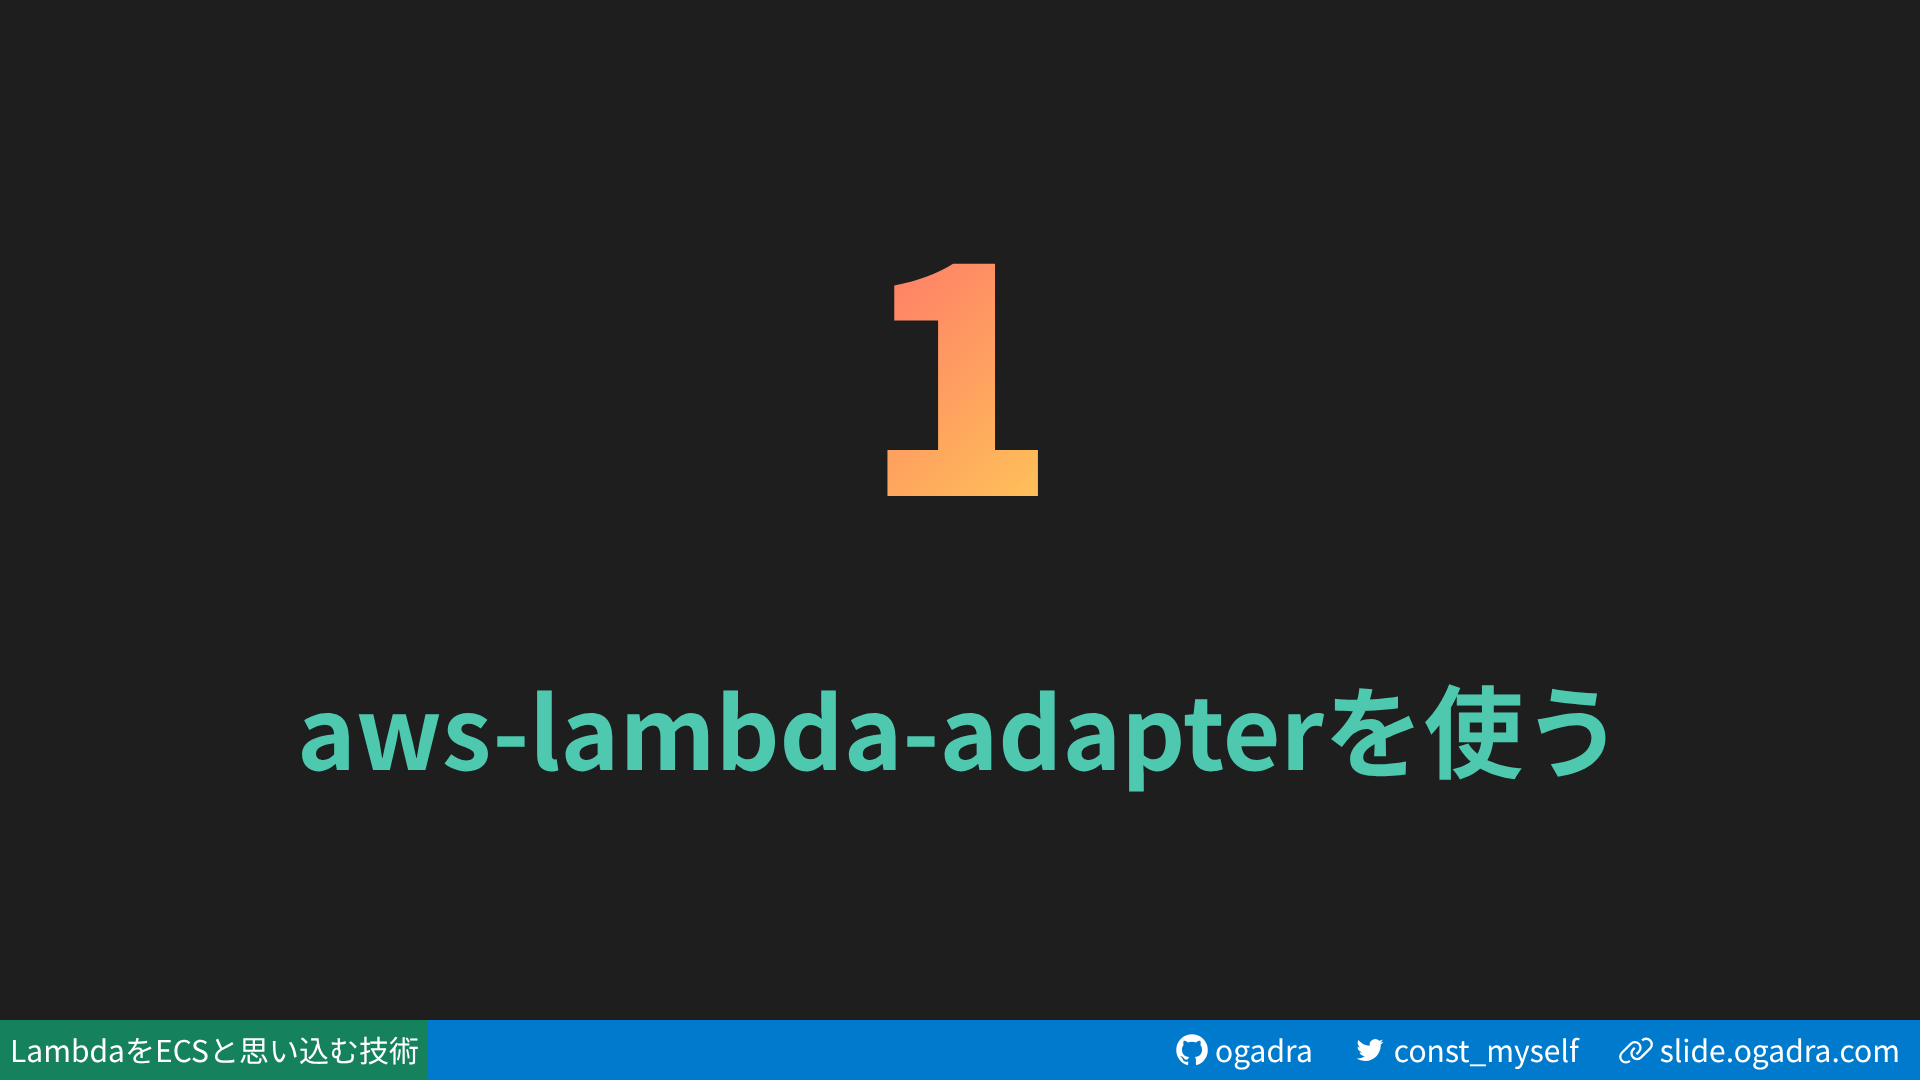
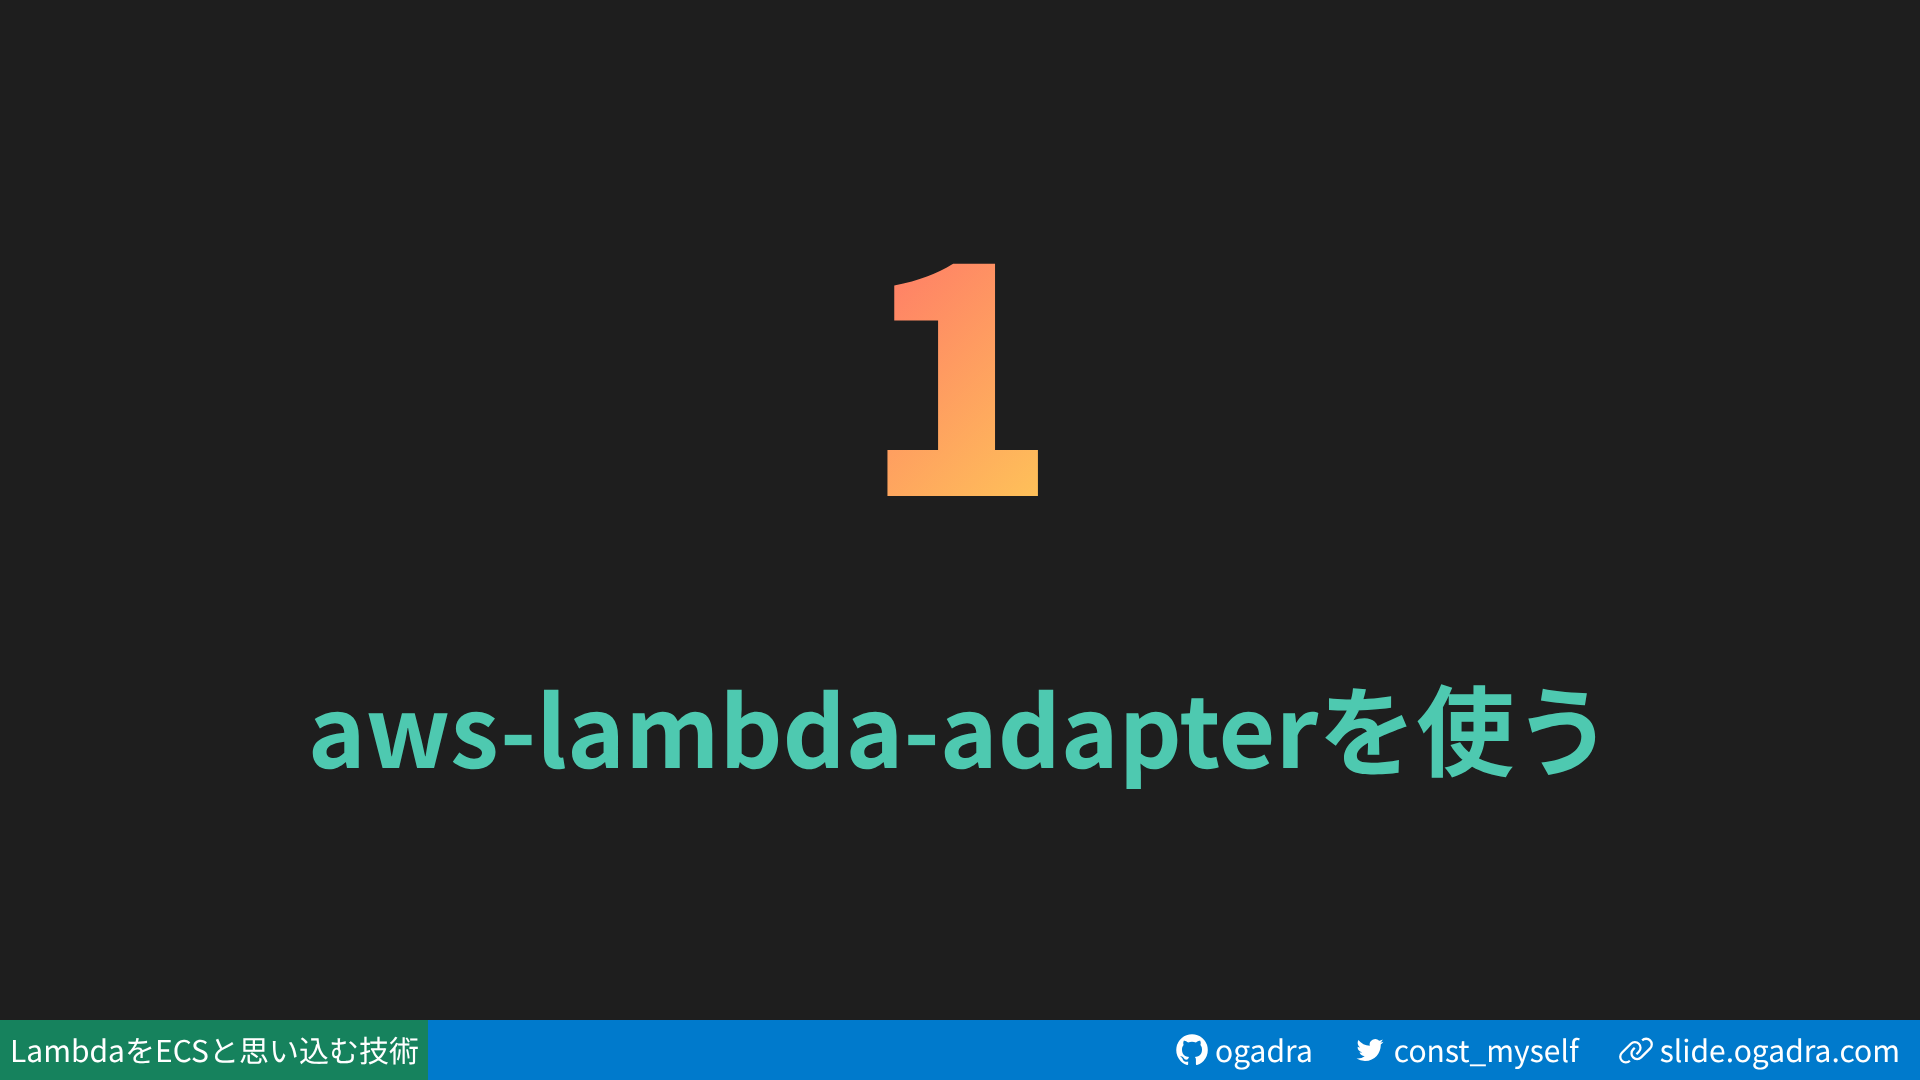
update ogp and style

Changed region(s): [[0.1562, 0.6111, 0.8438, 0.7333]]

diff --git a/slidev/lambda-as-an-ecs-alternative/style.css b/slidev/lambda-as-an-ecs-alternative/style.css
@@ -232,7 +232,7 @@ li {
 }
 
 .section-divider .section-title {
-  font-size: 2.49rem;
+  font-size: 2.45rem;
   font-weight: bold;
   color: #4ec9b0;
   margin-top: 3rem;
